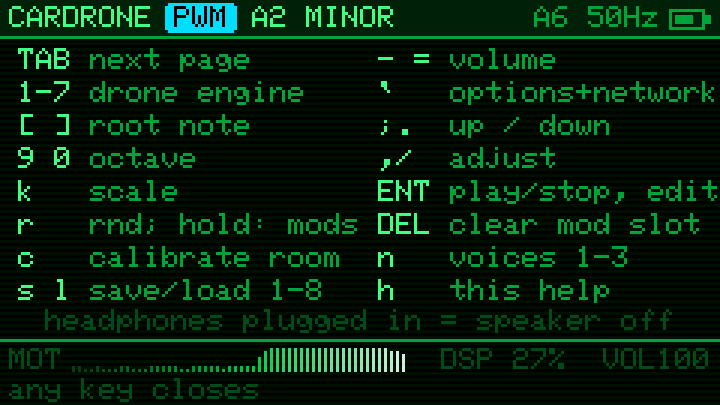
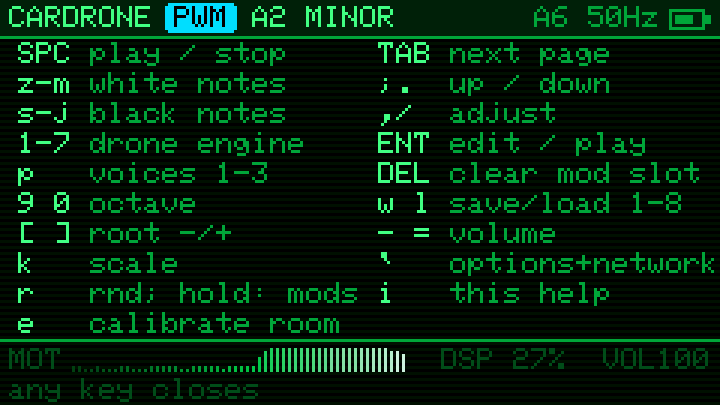
Piano keys on the bottom rows, Space plays; calibrate/save/help/voices move
z x c v b n m are C D E F G A B and s d g h j the sharps, tracker-style: a
note sets the root in the current octave and the drone glides there at the
mod profile's pitch speed (root and octave changes no longer jump); a note
while stopped starts the drone on it. Space toggles play on every page.

To make room: calibrate c -> e, save s -> w (load stays l), help h -> i,
voices n -> p. Help, footer hints, the boot prompt and the docs follow.

diff --git a/src/main.cpp b/src/main.cpp
@@ -58,7 +58,7 @@ static void applyTheme() {
 enum Page { PG_WATERFALL, PG_BARS, PG_PARAMS, PG_MATRIX, NPAGE };
 enum Overlay { OV_NONE, OV_HELP, OV_OPTIONS };
 constexpr int NOPT = 8;  // options: audio out, volume, mod profile, lfo shape, lfo rate, theme, network, calibrate
-static const char* const HINTS[NPAGE] = {"TAB view  1-7 drone  r random  h help", "c calibrate  s/l preset  h help",
+static const char* const HINTS[NPAGE] = {"TAB view  z-m notes  r random  i help", "e calibrate  w/l preset  i help",
                                          ";. select  ,/ adjust  ENTER fx on/off", ";. row  ENTER column  ,/ adj  DEL off"};
 // M5Unified doubles a mono stream, then scales by 32*vol^2*255^2/2^36: 180 is
 // unity gain, so a full-scale drone hard-clips in its mixer above that.
@@ -224,7 +224,7 @@ static void bootAnimation(const char* crash) {
       cv.drawString(typed, (W - len * 6) / 2, 74);
       if (n == len && t / 400 % 2) {  // the drone starts silent: say how to start it
         cv.setTextColor(C_HI);
-        cv.drawCenterString("press ENTER to play", W / 2, 88);
+        cv.drawCenterString("press SPACE to play", W / 2, 88);
       }
       cv.setTextColor(C_DIM);
       cv.drawRightString(CARDRONE_VERSION, W - 3, 3);
@@ -378,19 +378,18 @@ static void drawMatrix() {
 
 static void drawHelp() {
   static const char* const K[][2] = {
-      {"TAB", "next page"}, {"1-7", "drone engine"}, {"[ ]", "root note"}, {"9 0", "octave"},
-      {"k", "scale"},       {"r", "rnd; hold: mods"},      {"c", "calibrate room"}, {"s l", "save/load 1-8"},
-      {"- =", "volume"},    {"`", "options+network"}, {";.", "up / down"}, {",/", "adjust"},
-      {"ENT", "play/stop, edit"}, {"DEL", "clear mod slot"}, {"n", "voices 1-3"}, {"h", "this help"}};
+      {"SPC", "play / stop"},  {"z-m", "white notes"},     {"s-j", "black notes"},    {"1-7", "drone engine"},
+      {"p", "voices 1-3"},     {"9 0", "octave"},          {"[ ]", "root -/+"},       {"k", "scale"},
+      {"r", "rnd; hold: mods"}, {"e", "calibrate room"},   {"TAB", "next page"},      {";.", "up / down"},
+      {",/", "adjust"},        {"ENT", "edit / play"},     {"DEL", "clear mod slot"}, {"w l", "save/load 1-8"},
+      {"- =", "volume"},       {"`", "options+network"},   {"i", "this help"}};
   for (int i = 0; i < (int)(sizeof K / sizeof *K); i++) {
-    int x = 6 + (i / 8) * 120, y = 16 + (i % 8) * 11;
+    int x = 6 + (i / 10) * 120, y = 14 + (i % 10) * 10;
     cv.setTextColor(C_HI);
     cv.drawString(K[i][0], x, y);
     cv.setTextColor(C_MID);
     cv.drawString(K[i][1], x + 24, y);
   }
-  cv.setTextColor(C_DIM);
-  cv.drawCenterString("headphones plugged in = speaker off", W / 2, 103);
 }
 
 static void drawOptions() {
@@ -471,14 +470,14 @@ static void drawFooter() {
   bool note = pending || millis() < toastUntil || *hold;
   bool idle = !playing && !overlay && !calibrating();  // pulse "ENTER play" while silent
   cv.setTextColor(note ? C_WARN : idle && millis() / 500 % 2 ? C_HI : C_DIM);
-  cv.drawString(pending == 's'              ? "SAVE to slot 1-8 (other key cancels)"
+  cv.drawString(pending == 'w'              ? "SAVE to slot 1-8 (other key cancels)"
                 : pending                   ? "LOAD slot 1-8 (other key cancels)"
                 : *hold                     ? hold
                 : note                      ? toast
                 : calibrating()             ? "any key cancels"
                 : overlay == OV_HELP        ? "any key closes"
                 : overlay == OV_OPTIONS     ? ";. move  ,/ ENTER change  ` close"
-                : !playing                  ? "ENTER play  TAB view  h help"
+                : !playing                  ? "SPACE play  z-m notes  i help"
                                             : HINTS[page],
                 3, 126);
 }
@@ -848,7 +847,7 @@ static void onKey(char c) {
   }
   if (overlay == OV_OPTIONS) return optionsKey(c);
   if (pending) {
-    bool save = pending == 's';
+    bool save = pending == 'w';
     pending = 0;
     if (c < '1' || c > '8') return say("cancelled");
     bool ok = save ? savePreset(c - '0') : loadPreset(c - '0');
@@ -856,7 +855,14 @@ static void onKey(char c) {
     snprintf(s, sizeof s, "%s %c %s", save ? "SAVE" : "LOAD", c, ok ? "ok" : "FAILED (SD card?)");
     return say(s);
   }
+  static const char NOTE_KEYS[] = "zsxdcvgbhnjm";  // piano on the bottom rows: index = semitone above C
+  if (const char* k = c ? strchr(NOTE_KEYS, c) : nullptr) {
+    P.root = k - NOTE_KEYS;
+    playing = true;  // a note while stopped starts the drone on it
+    return;
+  }
   switch (c) {
+    case ' ': playing = !playing; break;
     case '\t': page = (page + 1) % NPAGE; break;
     case '\n':
       if (!playing || page < PG_PARAMS) playing = !playing;  // Params/Matrix keep ENTER for editing while playing
@@ -864,11 +870,11 @@ static void onKey(char c) {
       else mCol = (mCol + 1) % 3;
       break;
     case '\b': if (page == PG_MATRIX) P.mod[mRow].depth = 0; break;
-    case 'h': overlay = OV_HELP; break;
+    case 'i': overlay = OV_HELP; break;
     case '`': overlay = OV_OPTIONS; break;
     case '1': case '2': case '3': case '4': case '5': case '6': case '7': P.engine = c - '1'; break;
     case 'r': randomize(); break;
-    case 'n': {
+    case 'p': {
       static const char* const DESC[3] = {"VOICES 1: root", "VOICES 2: root + fifth", "VOICES 3: root + fifth + sub"};
       P.voices = P.voices % 3 + 1;
       say(DESC[P.voices - 1]);
@@ -879,8 +885,8 @@ static void onKey(char c) {
     case '9': if (P.octave > 0) P.octave--; break;
     case '0': if (P.octave < 5) P.octave++; break;
     case 'k': P.scale = (P.scale + 1) % NSCALE; break;
-    case 'c': startCalibration(); break;
-    case 's': case 'l': pending = c; break;
+    case 'e': startCalibration(); break;
+    case 'w': case 'l': pending = c; break;
     case '-': case '=':
       vol = constrain(vol + (c == '=' ? 12 : -12), 0, VOL_MAX);
       applyVolume();

diff --git a/src/dsp.h b/src/dsp.h
@@ -223,6 +223,7 @@ struct Synth {
   float drvLp = 0, drvDc = 0;  // analog drive: circuit bandwidth, DC blocker
   Slot route[NSLOT];    // the routings as currently applied: glide toward pt.mod
   float routeD[NSLOT];  // their depths, gliding
+  float baseN = -1;  // root + octave as a gliding MIDI note (-1: not started)
   float baseS[NPARAM], modS[NSRC] = {}, lfoPh = 0, lfoA = 0, lfoB = 0, semis = 0, fade = 0, cut = 1000, ic1 = 0, ic2 = 0;
   int engine = -1, curVoices = 3;
   uint8_t fxOn = 0;
@@ -322,8 +323,12 @@ DSP_IRAM void Synth::render(int16_t* out, int n, float* src, const float* prof) 
 
   // Pitch: quantised to the scale, then glided.
   float target = quantize((eff[P_PITCH] - 0.5f) * 24, SCALES[P.scale < NSCALE ? P.scale : 0].mask);
-  semis += (target - semis) * fminf(n / (mp.pitchTau * SR), 1.f);
-  float f0 = 440 * exp2f((12 * (P.octave + 1) + P.root + semis - 69) / 12);
+  float pitchGlide = fminf(n / (mp.pitchTau * SR), 1.f);
+  semis += (target - semis) * pitchGlide;
+  // Root and octave changes (note keys, [ ], 9 0) glide at the same pace: steering, not stepping.
+  float base = 12 * (P.octave + 1) + P.root;
+  baseN = baseN < 0 ? base : baseN + (base - baseN) * pitchGlide;
+  float f0 = 440 * exp2f((baseN + semis - 69) / 12);
   freq = f0;
   float fv[3] = {f0, f0 * 1.4983f, f0 * 0.5f};  // root, fifth, sub
   float tb = eff[P_TIMBRE], sp = eff[P_SPREAD];

diff --git a/test/host_test.cpp b/test/host_test.cpp
@@ -118,6 +118,19 @@ int main(int argc, char** argv) {
     assert(fabsf(syn.eff[P_CUTOFF] - 0.45f) < 0.02f && syn.eff[P_REVERB] > 0.95f);  // fully moved
   }
 
+  // Note keys set the root: the drone slides there instead of jumping.
+  {
+    syn.pt = DEFAULT_PATCH;  // A2 = 110 Hz
+    float src0[NSRC] = {}, flat[NSC];
+    for (float& f : flat) f = 0.5f;
+    for (int i = 0; i < 300; i++) syn.render(pcm, 512, src0, flat);
+    syn.pt.root = 4;  // E2 = 82.4 Hz
+    syn.render(pcm, 512, src0, flat);
+    assert(syn.freq > 100);  // one block in: still near A
+    for (int i = 0; i < 400; i++) syn.render(pcm, 512, src0, flat);
+    assert(fabsf(syn.freq - 82.41f) < 0.5f);
+  }
+
   // Analog drive: a pushed pure tone grows a 2nd harmonic (tube-like bias), not just odd ones.
   {
     syn.pt = DEFAULT_PATCH;

diff --git a/manual.md b/manual.md
@@ -8,9 +8,9 @@ You don't need to play notes. Pick a sound, press play, and let the room do the 
 
 1. Flash `cardrone.bin` (see the README) and power on.
 2. The first time, a **network screen** appears. Pick **AUTO** at the top. CARDRONE listens on every WiFi channel for a few seconds and locks onto the busiest signal it hears. No password needed.
-3. The drone is **silent until you press Enter** (the boot screen and the footer remind you). Press Enter to play, and again to stop. The boot screen's top-right corner shows the firmware version.
+3. The drone is **silent until you press Space** (the boot screen and the footer remind you). Press Space to play, and again to stop. Or press a note key (see below) to start on that note. The boot screen's top-right corner shows the firmware version.
 4. Walk around, wave your arms, sit still. Watch the waterfall and listen.
-5. Press `h` any time for the key list, and `` ` `` (the key left of `1`) for options.
+5. Press `i` any time for the key list, and `` ` `` (the key left of `1`) for options.
 
 Plug in headphones and the speaker switches off by itself.
 
@@ -42,7 +42,7 @@ On the right are live meters for the eight **mod sources** (explained below). Th
 
 ### 2. Bars
 
-The same 52 slices as a live bar graph, so you can see the current "shape" of the signal. Dim ghosts show recent peaks. After you calibrate (key `c`), small marks show what the empty room looked like, so you can see how far the room has moved from it.
+The same 52 slices as a live bar graph, so you can see the current "shape" of the signal. Dim ghosts show recent peaks. After you calibrate (key `e`), small marks show what the empty room looked like, so you can see how far the room has moved from it.
 
 ### 3. Params
 
@@ -88,7 +88,7 @@ All room sources run from 0 to 1, and they **adapt to your room**. After a few s
 
 ### Calibrating
 
-Press `c` (or Options → CALIBRATE). A big **LEAVE THE ROOM** countdown gives you 5 seconds to step out. Then the screen shows **CALIBRATING** with a progress bar while CARDRONE records the empty room for about 150 WiFi readings (around 3 seconds at a good rate). When you come back you'll see `BASELINE SET`. Any key cancels, during the countdown or the capture. If it says *waiting for CSI*, no readings are arriving: check the network. From then on, **LO**, **MID** and **HI** measure "how different is the room from empty", which makes them steadier and more meaningful.
+Press `e` (or Options → CALIBRATE). A big **LEAVE THE ROOM** countdown gives you 5 seconds to step out. Then the screen shows **CALIBRATING** with a progress bar while CARDRONE records the empty room for about 150 WiFi readings (around 3 seconds at a good rate). When you come back you'll see `BASELINE SET`. Any key cancels, during the countdown or the capture. If it says *waiting for CSI*, no readings are arriving: check the network. From then on, **LO**, **MID** and **HI** measure "how different is the room from empty", which makes them steadier and more meaningful.
 
 ### Tips for good modulation
 
@@ -112,7 +112,7 @@ Press `1`–`7`. The sound fades over when you switch.
 
 ### Voices
 
-Press `n` to choose how many tones the drone stacks:
+Press `p` to choose how many tones the drone stacks:
 
 - **1**: just the root
 - **2**: root and the fifth above it, the classic open drone
@@ -145,22 +145,34 @@ Changes glide over a fraction of a second, so turning a knob, loading a preset o
 
 ## Keys
 
+The bottom two letter rows are a one-octave keyboard, like a tracker:
+
+```
+ s  d     g  h  j        C#  D#      F#  G#  A#
+z  x  c  v  b  n  m     C   D   E   F   G   A   B
+```
+
+A note sets the drone's root in the current octave (`9` `0` change the octave). The drone glides to it at the speed of your MOD PROFILE, so it steers rather than steps. Pressing a note while stopped starts the drone on that note.
+
 | Key | Action |
 |---|---|
-| **Enter** | play / stop (on Params and Matrix it edits while playing) |
+| **Space** | play / stop, on any page |
+| `z x c v b n m` | white notes C D E F G A B: the drone moves to that root in the current octave |
+| `s d g h j` | black notes C# D# F# G# A# |
+| **Enter** | on Params and Matrix it edits; elsewhere play / stop |
 | **Tab** | next page |
 | `1`–`7` | engine |
-| `n` | voices: 1, 2 or 3 (see below) |
-| `[` `]` | root note down / up |
+| `p` | voices: 1, 2 or 3 (see below) |
+| `[` `]` | root note down / up a semitone |
 | `9` `0` | octave down / up |
 | `k` | next scale: minor, major, dorian, phrygian, pentatonic, fifths, chromatic |
 | `r` | randomize params (pitch, noise and level stay put; shimmer usually stays out); **keep holding 3 s** (the footer counts down) to also randomize the modulation: every slot's source, param and depth, plus the LFO shape. The Matrix page then opens to show them. |
-| `c` | calibrate the empty room (5 s countdown to leave, any key cancels) |
-| `s` then `1`–`8` | save a preset to the SD card |
+| `e` | calibrate the empty room (5 s countdown to leave, any key cancels) |
+| `w` then `1`–`8` | save (write) a preset to the SD card |
 | `l` then `1`–`8` | load a preset from the SD card |
 | `-` `=` | volume |
 | `` ` `` | options |
-| `h` | help |
+| `i` | help |
 | `;` `.` | up / down |
 | `,` `/` | adjust |
 | **Del** | Matrix: switch the slot off |
@@ -196,7 +208,7 @@ In the list, `;` `.` move, Enter picks, `` ` `` goes back. Networks with `*` nee
 
 ## Presets
 
-Presets live on the SD card in `/cardrone/preset1.json` to `preset8.json`. A preset holds the engine, root, octave, scale, which effects are on, the LFO shape, all params and the whole matrix. Press `s` or `l`, then a number; any other key cancels.
+Presets live on the SD card in `/cardrone/preset1.json` to `preset8.json`. A preset holds the engine, root, octave, scale, which effects are on, the LFO shape, all params and the whole matrix. Press `w` (save) or `l` (load), then a number; any other key cancels.
 
 ## Recipes
 

diff --git a/README.md b/README.md
@@ -15,9 +15,9 @@ Rendered by the firmware's own drawing code from a simulated room, in which some
 | <img src="docs/params.png" width="360" alt="Params page"> | <img src="docs/matrix.png" width="360" alt="Matrix page"> |
 | **Params**: set values as bars, white ticks where the room has pushed them. Greyed params belong to effects that are off. | **Matrix**: 8 routings of source → param with depth; the source meters are live. |
 | <img src="docs/options.png" width="360" alt="Options overlay"> | <img src="docs/help.png" width="360" alt="Help overlay"> |
-| **Options** (`` ` ``) | **Help** (`h`) |
+| **Options** (`` ` ``) | **Help** (`i`) |
 | <img src="docs/cal_countdown.png" width="360" alt="Calibration countdown"> | <img src="docs/cal_capture.png" width="360" alt="Calibration capture"> |
-| **Calibrate** (`c`): 5 s to leave the room… | …then the empty room is captured. Any key cancels. |
+| **Calibrate** (`e`): 5 s to leave the room… | …then the empty room is captured. Any key cancels. |
 
 ## Build / flash
 
@@ -39,31 +39,34 @@ The network screen opens on first boot, and later from `` ` `` → NETWORK. Your
 | JOIN | Associates, then pings the router 50×/s so it keeps answering. Needs the password. | steadiest, ~50 Hz+ |
 | LISTEN | Promiscuous on one network's channel, filtered to that router. No password. | depends on the router's traffic; beacons sent at 1 Mbps yield no CSI |
 
-The header shows the mode letter, channel and CSI rate, e.g. `A6 48Hz`, then the battery. The drone stays silent until you press `Enter`. Started before CSI arrives, it hums on the LFO.
+The header shows the mode letter, channel and CSI rate, e.g. `A6 48Hz`, then the battery. The drone stays silent until you press `Space` (or a note key). Started before CSI arrives, it hums on the LFO.
 
 ## Audio out
 
-Nothing sounds until `Enter` (play). On the ADV, plugging headphones into the jack switches the speaker amp off in hardware. Neither the amp enable nor the headphone-detect line reaches a GPIO, so software can only mute both outputs together: `` ` `` → AUDIO OUT.
+Nothing sounds until `Space` (play). On the ADV, plugging headphones into the jack switches the speaker amp off in hardware. Neither the amp enable nor the headphone-detect line reaches a GPIO, so software can only mute both outputs together: `` ` `` → AUDIO OUT.
 
 ## Keys
 
 | Key | Action |
 |---|---|
+| `Space` | play / stop on any page (fades, resumes where it left off) |
+| `z x c v b n m` | white notes C D E F G A B: set the drone's root in the current octave (it glides there; a note while stopped starts playing) |
+| `s d g h j` | black notes C# D# F# G# A# |
 | `Tab` | page: Waterfall → Bars → Params → Matrix |
 | `1`–`7` | engine: PWM, SAW (supersaw), FM (bell), ORG (subcarrier additive organ), WAVE (wavetable), VOICE (formant choir), NOISE (dust, wind, surf, static, metal) |
-| `n` | voices: 1 (root), 2 (+ fifth), 3 (+ sub) |
+| `p` | voices: 1 (root), 2 (+ fifth), 3 (+ sub) |
 | `r` | randomize params in drone-friendly ranges (pitch, noise and level stay put, shimmer only now and then); keep holding 3 s (the footer counts down) to also randomize the mod matrix (sources, destinations, depths) and the LFO shape, then the Matrix page opens |
-| `[` `]` | root note down / up |
+| `[` `]` | root note down / up a semitone |
 | `9` `0` | octave down / up |
 | `k` | cycle scale (CSI pitch drift is quantised to it) |
-| `c` | calibrate an empty-room baseline: 5 s countdown to leave the room, then ~3 s capture (any key cancels); LO/MID/HI then measure deviation from it |
-| `s` / `l` then `1`–`8` | save / load preset to `/cardrone/presetN.json` on SD |
+| `e` | calibrate an empty-room baseline: 5 s countdown to leave the room, then ~3 s capture (any key cancels); LO/MID/HI then measure deviation from it |
+| `w` / `l` then `1`–`8` | save (write) / load preset to `/cardrone/presetN.json` on SD |
 | `-` `=` | volume |
 | `` ` `` | options: audio out, volume, mod profile (sharp, normal, smooth, slow), LFO shape (sine, triangle, saw, square, S&H, drift) and rate, theme (green, yellow, red, blue, B&W), network, calibrate |
-| `h` | key help overlay |
+| `i` | key help overlay |
 | `;` `.` | up / down (Params, Matrix) |
 | `,` `/` | adjust value (Params, Matrix) |
-| `Enter` | play / stop (fades, resumes where it left off). While playing on Params it toggles the selected param's FX, on Matrix it moves to the next column (src → dest → depth) |
+| `Enter` | on Params, toggles the selected param's FX; on Matrix, moves to the next column (src → dest → depth); elsewhere play / stop |
 | `Del` | Matrix: clear slot |
 
 ## Mod sources (from CSI)
@@ -74,7 +77,7 @@ Nothing sounds until `Enter` (play). On the ADV, plugging headphones into the ja
 | PHS | phase variance |
 | FLX | frame-to-frame flux (fast, jittery) |
 | RSI | RSSI |
-| LO / MID / HI | deviation per subcarrier third (from the baseline after `c`) |
+| LO / MID / HI | deviation per subcarrier third (from the baseline after `e`) |
 | LFO | internal, bipolar, rate = LFO param |
 
 Destinations: PITCH CUTOFF RESO TIMBRE SPREAD NOISE LFO LEVEL DRIVE CRUSH RING CHORUS D.TIME D.FB REVERB SHIMMR.
